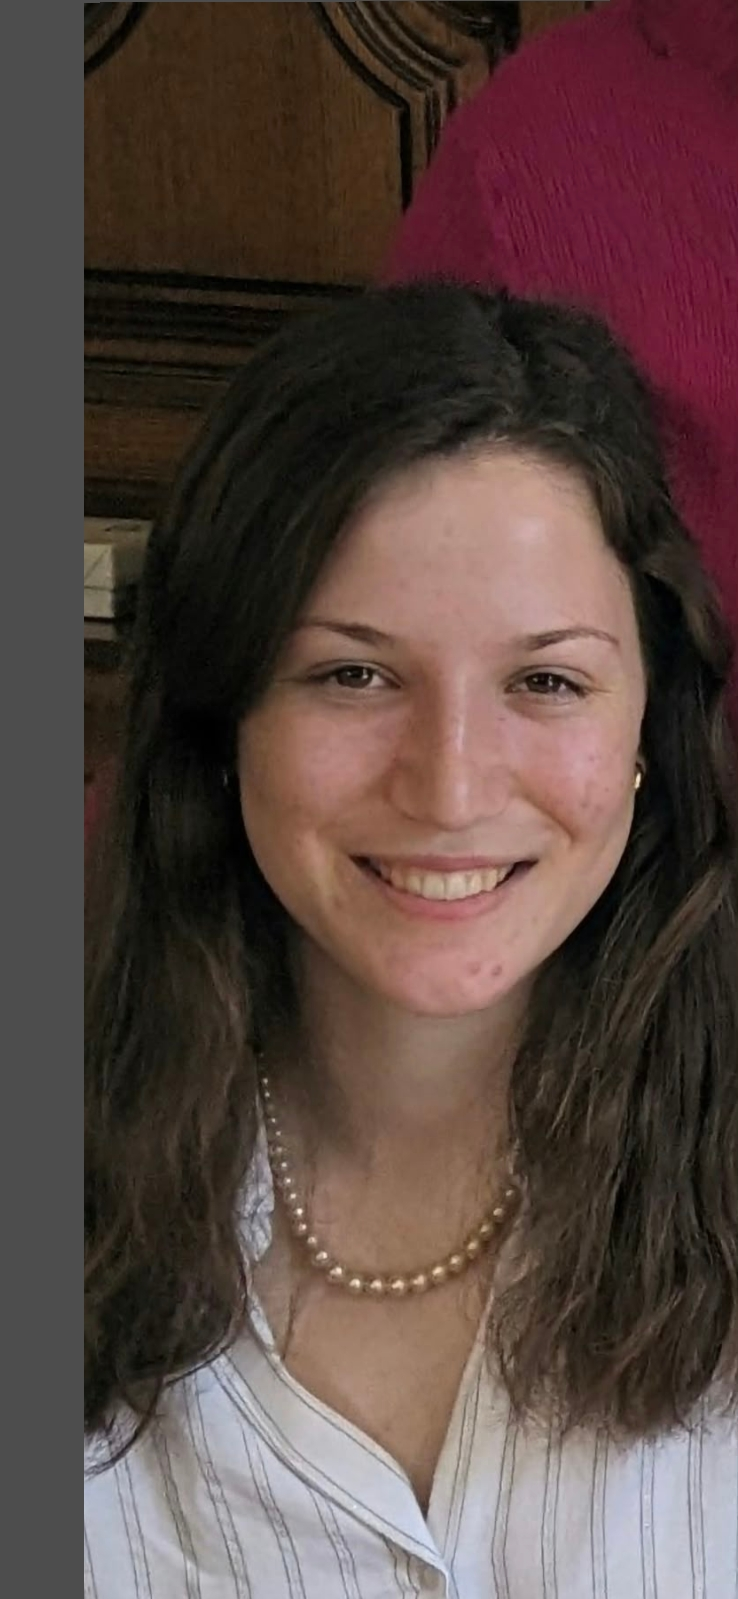
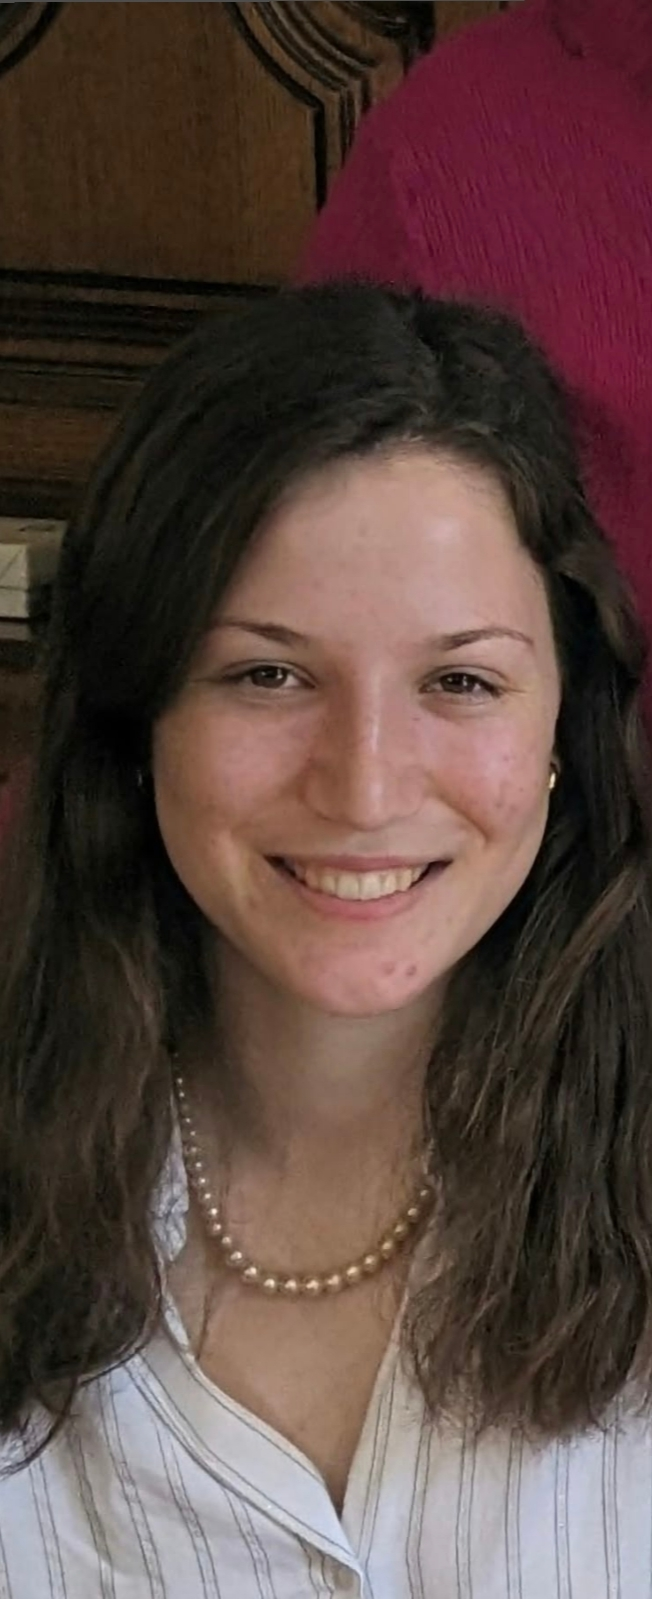
feat: additional information

diff --git a/index.html b/index.html
@@ -37,7 +37,7 @@
     </div>
     <figure class="photo">
       <img src="assets/photo.jpg" alt="Portrait de Camille Gitton" width="320" height="400">
-      <span class="initials" aria-hidden="true">CG</span>
+      <span class="initials" aria-hidden="false">CG</span>
     </figure>
   </div>
 </section>
@@ -57,9 +57,11 @@
   <div class="wrap narrow">
     <h2>Parcours</h2>
     <ol class="timeline">
-      <li><time>2024 – 2027</time><h3>BUT Informatique</h3><p>IUT [à compléter], parcours [à compléter]. Projets en développement, bases de données, réseaux et systèmes.</p></li>
-      <li><time>2024</time><h3>Baccalauréat</h3><p>Série [à compléter], lycée [à compléter].</p></li>
-      <li><time>Depuis [année]</time><h3>Sport de haut niveau</h3><p>[Discipline à compléter]. Entraînement régulier et compétition, en parallèle des études.</p></li>
+      <li><time>2026</time><h3>Diplôme animateur et éducateur</h3><p></p></li>
+      <li><time>2024 – 2027</time><h3>BUT Informatique</h3><p>IUT Informatique de Bordeaux, parcours réalisation d’applications : conception, développement, validation.</p></li>
+      <li><time>2024 – 2027</time><h3>DU Robotique</h3><p>IUT Informatique de Bordeaux, Diplôme universitaire en Robotique. Conception 3D, impression, montage, programmation.</p></li>
+      <li><time>2024</time><h3>Baccalauréat</h3><p>Série général spécialité mathématiques, physique-chimie et numérique science informatique, lycée Saint-Michel à Annecy.</p></li>
+      <li><time>Depuis 2022</time><h3>Sport de haut niveau (sur liste ministérielle)</h3><p>Escrime sabre dame. Entraînement régulier et compétition, en parallèle des études.</p></li>
     </ol>
   </div>
 </section>
@@ -135,9 +137,9 @@
       <li><span>Email</span><a href="mailto:camille.gitton@free.fr">camille.gitton@free.fr</a></li>
       <li><span>Téléphone</span><a href="tel:+33768369065">07 68 36 90 65</a></li>
       <li><span>LinkedIn</span><a href="https://fr.linkedin.com/in/camille-gitton-80a5023b8" target="_blank" rel="noopener">linkedin.com/in/camille-gitton</a></li>
-      <li><span>GitHub</span><a href="https://github.com/votre-pseudo" target="_blank" rel="noopener">github.com/votre-pseudo</a></li>
+      <!--<li><span>GitHub</span><a href="https://github.com/votre-pseudo" target="_blank" rel="noopener">github.com/votre-pseudo</a></li>-->
     </ul>
-    <a class="btn primary" href="assets/CV-Camille_GITTON.pdf" download="CV_Camille_Gitton.pdf">Télécharger mon CV (PDF)</a>
+    <a class="btn primary" href="assets/cv.pdf" download="CV_Camille_Gitton.pdf">Télécharger mon CV (PDF)</a>
   </div>
 </section>
 </main>
